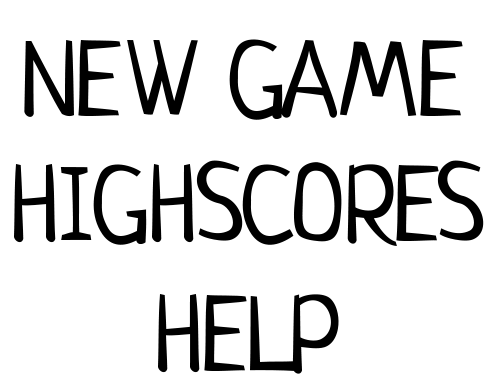
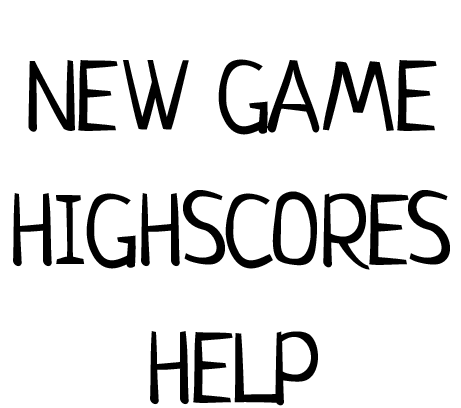
Change menu pixmaps Add settings button

diff --git a/attt/src/main/java/com/petrsu/attt/MainMenuScreen.java b/attt/src/main/java/com/petrsu/attt/MainMenuScreen.java
@@ -15,19 +15,21 @@ import java.util.List;
  */
 public class MainMenuScreen extends Screen {
     private int soundX = 0;
-    private int soundY = 1134;
-    private int soundWidth = 128;
-    private int soundHeight = 145;
-    private int logoX = 62;
-    private int logoY = 55;
-    private int logoWidth = 603;
-    private int logoHeight = 366;
-    private int buttonsX = 121;
-    private int buttonsY[] = {536, 715, 895};
-    private int buttonsWidth = 485;
-    private int buttonsHeight = 125;
+    private int soundY = 1105;
+    private int settingsX = 585;
+    private int settingsY = 1105;
+    private int soundSettingsWidth = 136;
+    private int soundSettingHeight = 136;
+    private int logoX = 65;
+    private int logoY = 65;
+    private int logoWidth = 591;
+    private int logoHeight = 268;
+    private int buttonsX = 130;
+    private int buttonsY[] = {390, 585, 780};
+    private int buttonsWidth = 461;
+    private int buttonsHeight = 136;
     private boolean isClicked[] = {false, false, false};
-    private int color = Color.parseColor("#2e8b57");
+    private int color = Color.parseColor("#808080");
     private boolean lock = false;
     public MainMenuScreen(Game game) {
         super(game);
@@ -39,17 +41,26 @@ public class MainMenuScreen extends Screen {
         List<TouchEvent> touchEvents = game.getInput().getTouchEvents();
         game.getInput().getKeyEvents();
 
+        //Process touch events
         int len = touchEvents.size();
         for (int i = 0; i < len; i++) {
             TouchEvent event = touchEvents.get(i);
             if (event.type == TouchEvent.TOUCH_UP) {
-               if (inBounds(event, soundX, soundY, soundWidth, soundHeight)) {
+                //sound
+                if (inBounds(event, soundX, soundY, soundSettingsWidth, soundSettingHeight)) {
                    Settings.soundEnabled = !Settings.soundEnabled;
                    if(Settings.soundEnabled) {
                        Assets.click.play(0.5f);
                    }
                }
+               //settigns
+               if (inBounds(event, settingsX, settingsY, soundSettingsWidth, soundSettingHeight)) {
+                   if (Settings.soundEnabled) {
+                       Assets.click.play(0.5f);
+                   }
+               }
 
+               //menu buttons
                for (int j = 0; j < 3; j++) {
                    if (inBounds(event, buttonsX, buttonsY[j], buttonsWidth, buttonsHeight) && isClicked[j]) {
                        if (Settings.soundEnabled) {
@@ -62,6 +73,7 @@ public class MainMenuScreen extends Screen {
                }
             }
             if (event.type == TouchEvent.TOUCH_DOWN) {
+                //menu buttons
                 for (int j = 0; j < 3; j++) {
                     if (inBounds(event, buttonsX, buttonsY[j], buttonsWidth, buttonsHeight)) {
                         if (!lock) {
@@ -74,6 +86,7 @@ public class MainMenuScreen extends Screen {
                 }
             }
             if (event.type == TouchEvent.TOUCH_DRAGGED) {
+                //menu buttons
                 for (int j = 0; j < 3; j++) {
                     if(!inBounds(event, buttonsX, buttonsY[j], buttonsWidth, buttonsHeight)) {
                         isClicked[j] = false;
@@ -99,11 +112,15 @@ public class MainMenuScreen extends Screen {
 
         //draw sound icon
         if (Settings.soundEnabled) {
-            g.drawPixmap(Assets.soundButtons, soundX, soundY, 0, 0, soundWidth, soundHeight);
+            g.drawPixmap(Assets.soundSettingsButtons, soundX, soundY, 0, 0, soundSettingsWidth, soundSettingHeight);
         } else {
-            g.drawPixmap(Assets.soundButtons, soundX, soundY, soundWidth, 0, soundWidth, soundHeight);
+            g.drawPixmap(Assets.soundSettingsButtons, soundX, soundY, soundSettingsWidth, 0, soundSettingsWidth, soundSettingHeight);
         }
 
+        //draw settings icon
+        g.drawPixmap(Assets.soundSettingsButtons, settingsX, settingsY, 0, soundSettingHeight, soundSettingsWidth, soundSettingHeight);
+
+        //draw logo
         g.drawPixmap(Assets.logo, logoX, logoY);
 
         //draw menu items
@@ -116,6 +133,7 @@ public class MainMenuScreen extends Screen {
                         buttonsWidth, buttonsHeight);
             }
         }
+
     }
 
     @Override

diff --git a/attt/src/main/java/com/petrsu/attt/LoadingScreen.java b/attt/src/main/java/com/petrsu/attt/LoadingScreen.java
@@ -22,13 +22,10 @@ public class LoadingScreen extends Screen {
         Assets.background = g.newPixmap("background.png", Graphics.PixmapFormat.ARGB8888);
         Assets.logo = g.newPixmap("logo.png", Graphics.PixmapFormat.ARGB8888);
         Assets.menuButtons = g.newPixmap("menu_buttons.png", Graphics.PixmapFormat.ARGB8888);
-        Assets.soundButtons = g.newPixmap("sound_buttons.png", Graphics.PixmapFormat.ARGB8888);
+        Assets.soundSettingsButtons = g.newPixmap("sound_settings_buttons.png", Graphics.PixmapFormat.ARGB8888);
 
         //Sounds
         Assets.click = game.getAudio().newSound("click.ogg");
-
-        //Fonts
-        Assets.font = game.getFont().newFont("font.ttf");
 
         //Settings
         Settings.load(game.getFileIO());

diff --git a/attt/src/main/java/com/petrsu/attt/Assets.java b/attt/src/main/java/com/petrsu/attt/Assets.java
@@ -1,7 +1,5 @@
 package com.petrsu.attt;
 
-import android.graphics.Typeface;
-
 import com.badlogic.androidgames.framework.Pixmap;
 import com.badlogic.androidgames.framework.Sound;
 
@@ -13,11 +11,10 @@ public class Assets {
     public static Pixmap background;
     public static Pixmap logo;
     public static Pixmap menuButtons;
-    public static Pixmap soundButtons;
+    public static Pixmap soundSettingsButtons;
 
     //Sounds
     public static Sound click;
 
     //Fonts
-    public static Typeface font;
 }
